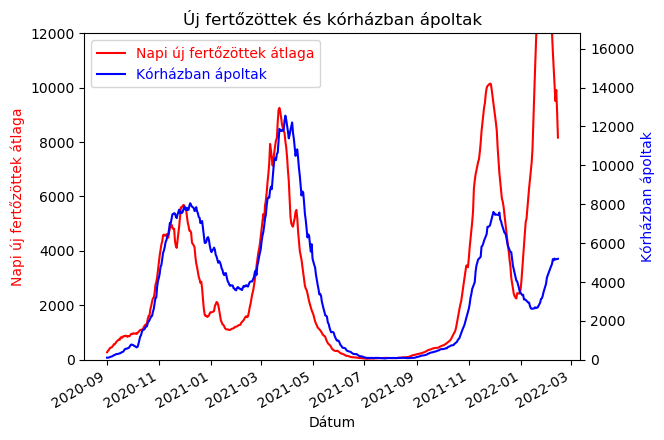
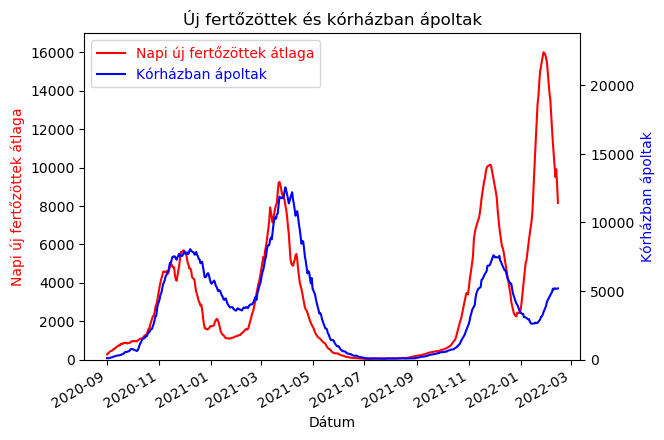
Limit javítás

diff --git a/kép_új_fertőzöttek_vs_kórházban_ápoltak.py b/kép_új_fertőzöttek_vs_kórházban_ápoltak.py
@@ -26,9 +26,9 @@ par = host.twinx()
 host.set_xlabel("Dátum")
 host.set_ylabel("Napi új fertőzöttek átlaga")
 host.set_title("Új fertőzöttek és kórházban ápoltak")
-host.set_ylim([0, 12000])
+host.set_ylim([0, 17000])
 par.set_ylabel("Kórházban ápoltak")
-par.set_ylim([0, 16800])
+par.set_ylim([0, 23800])
 
 p1, = host.plot(df['Dátum'], df['Napi új fertőzöttek átlaga'], label="Napi új fertőzöttek átlaga", color='red')
 p2, = par.plot(df['Dátum'], df['Kórházban ápoltak'], label="Kórházban ápoltak", color='blue')
